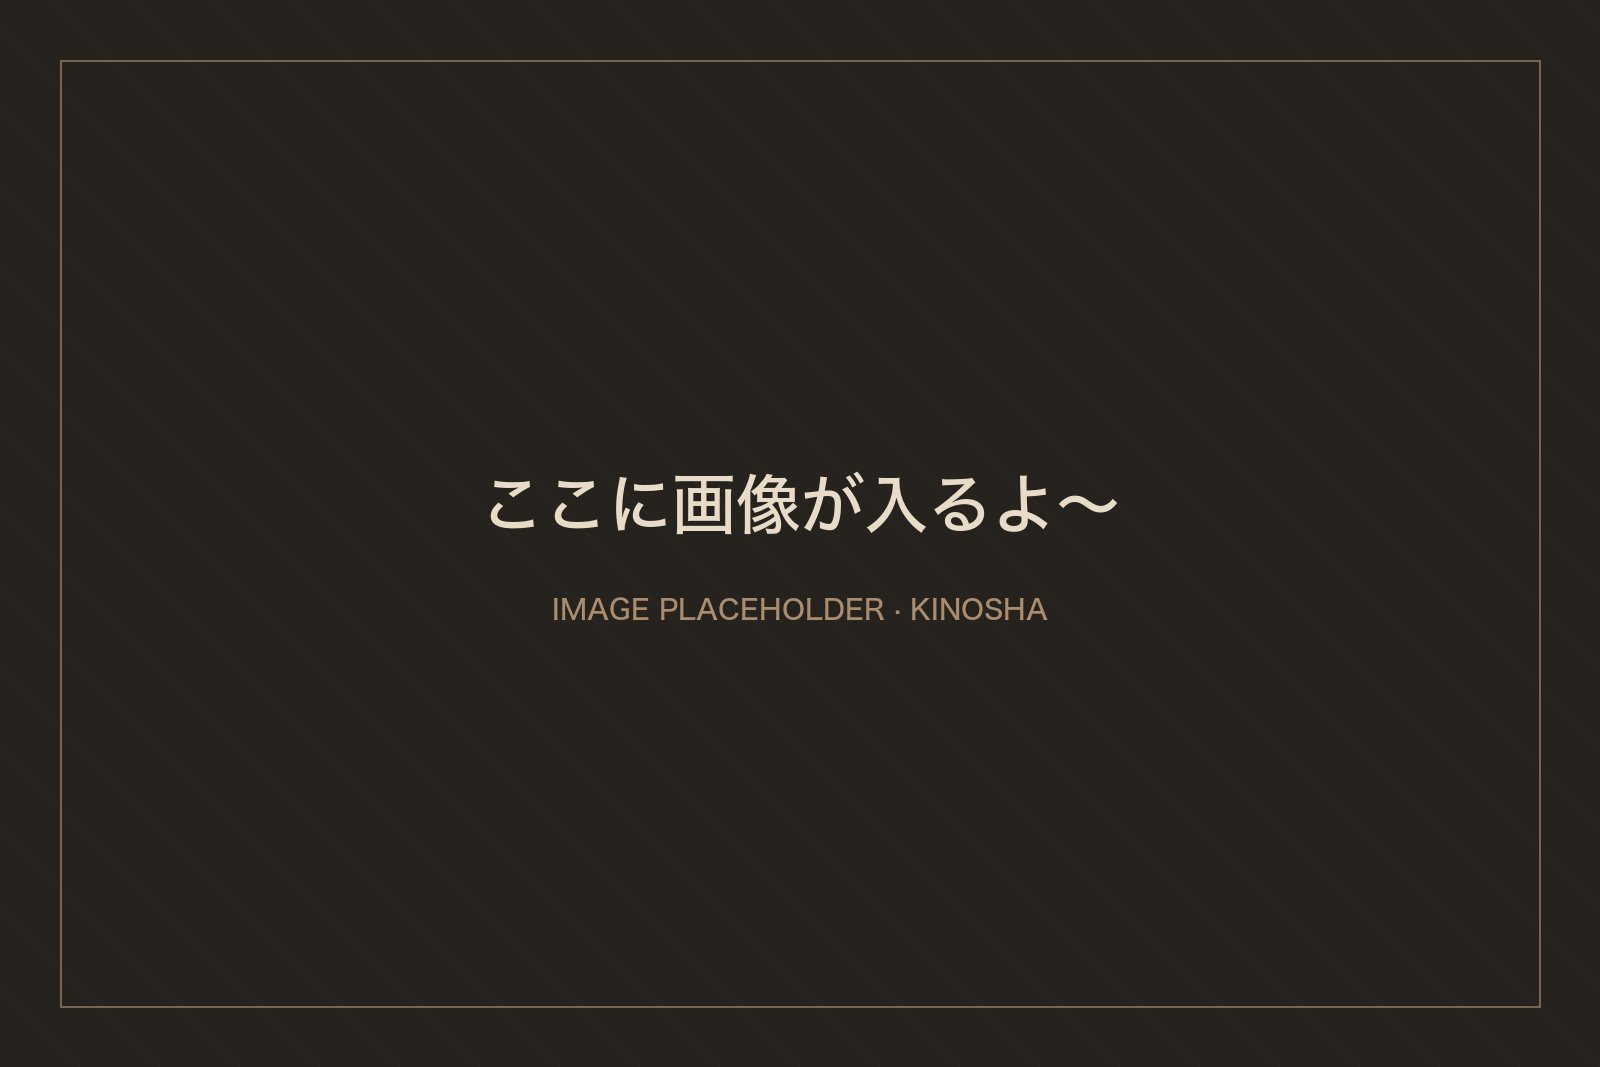
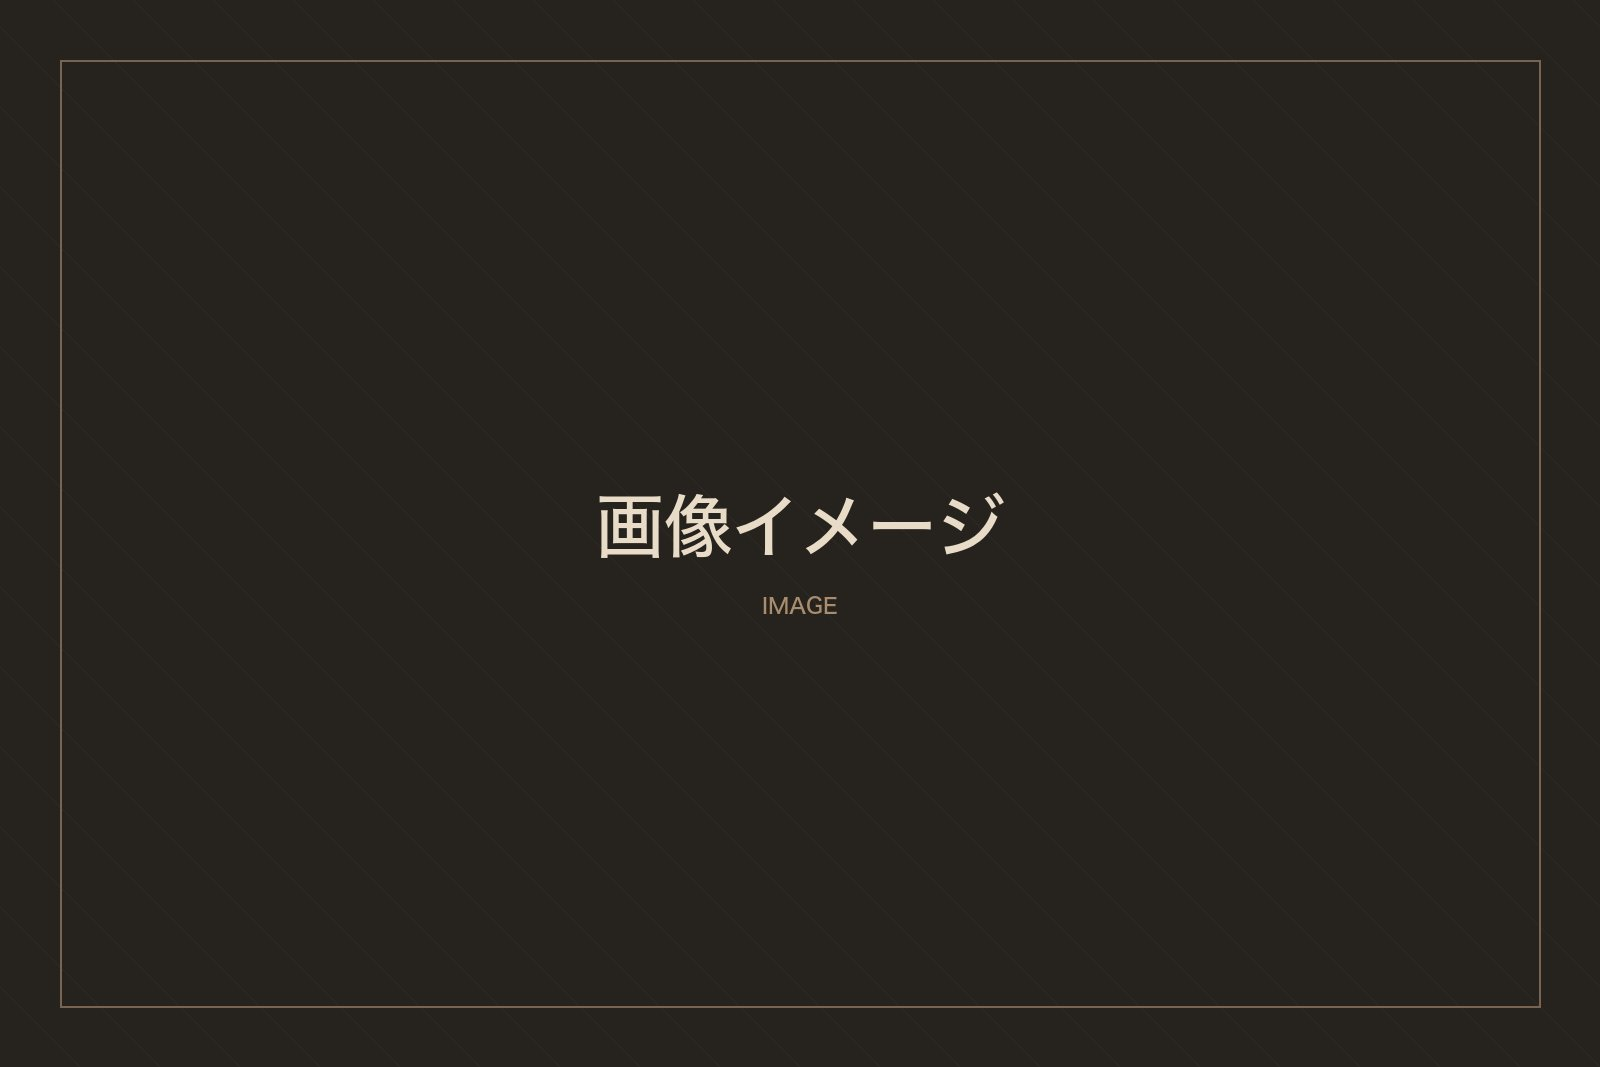
copy: 「編集部イチオシのお店」表現に統一・プレースホルダ画像を「画像イメージ」表記に
- Qualia / 汽ノ舎 両記事の quote を「編集部としてはいちばんおすすめしたい」
  →「編集部イチオシのお店」表現へ
- placeholder.jpg を「ここに画像が入るよ〜」→「画像イメージ / IMAGE」に再生成
- 編集トーンガイドの推奨フレーズを追従更新

Changed region(s): [[0.3125, 0.433, 0.6875, 0.5258], [0.3438, 0.5567, 0.6562, 0.5876]]

diff --git a/lib/newGuideFeatures6.ts b/lib/newGuideFeatures6.ts
@@ -121,7 +121,7 @@ export const NEW_GUIDE_FEATURE_ARTICLES_6: Record<string, FeatureArticle> = {
         "Qualiaは、2回目以降のデート、記念日・誕生日ディナー、食後の二軒目バー利用まで、いろんなシーンを引き受けてくれる一軒。姪浜は地下鉄空港線で天神まで約15分なので、終電を気にせずゆったり夜を楽しめる時間帯まで居られるのがありがたい。夕方は能古島フェリーで海風を浴びる短いクルーズや、マリナタウン周辺の散歩と組み合わせると、デート全体のメリハリがぐっと増します。雨の日は屋外アクティビティをいさぎよく諦めて、Qualiaに直行し2〜3時間じっくり過ごす――そんな使い方も最高の夜になるだろう。観光地ではない街だからこそ、お店を主役に据えたデートが最適解。これって、意外と希少なオプションだと思う。",
         ["/restaurants/qualia/image_1.jpg"], [{ k: "利用シーン", v: "デート / 記念日 / 二軒目 / 普段使い" }, { k: "予約", v: "土日のディナーは予約推奨" }])],
     sideArticles: [],
-    quote: "Kitchen&Bar Qualiaは、姪浜で「食事もお酒も1軒で完結する」という稀有なポジションを担う一軒。観光地ではない街だからこそ、お店そのものを主役にしたデートが組み立てやすい――そこを、編集部としてはいちばんおすすめしたい。",
+    quote: "Kitchen&Bar Qualiaは、姪浜で「食事もお酒も1軒で完結する」という稀有なポジションを担う一軒。観光地ではない街だからこそ、お店そのものを主役にしたデートが組み立てやすい――まさに、編集部イチオシのお店です。",
     quoteCite: author,
     closing: "最後に、編集部が考える「黄金動線」を共有しておきたい。17:30に姪浜駅で待ち合わせ→マリナタウンか能古島港でちょっとだけ散歩（〜18:30）→Kitchen&Bar Qualiaでコースディナー（19:00〜21:00）→食後はそのままバーカウンターに席を移してカクテル2〜3杯（21:00〜22:30）→姪浜駅から地下鉄で帰路。この流れがいちばん気持ちよく決まる、というのが編集部の結論です。所要は4〜5時間、予算は1人8,000〜13,000円ほどが目安（コース内容で変動）。2回目以降のデートにも、記念日・誕生日ディナーにも、食後の二軒目バー使いにも、幅広く頼れる一軒。土日のディナー帯（19〜21時）は予約してから足を運ぶのが正解だ。営業時間・料金・コース内容は時期で変わるので、訪問前に公式サイトやGoogleマップで最新情報をチェックしておくと安心。天神・中洲の喧騒からそっと離れて、落ち着いた大人の夜を過ごしたい2人にこそ、届けたい一軒です。最後に注意点をひとつだけ。失敗しやすいのは「ディナーピーク時の予約なし突撃」と「終電時刻の見落とし」、この2つに尽きる。姪浜駅の最終電車と予約時間を逆算しながら、当日のプランを気持ちよく組み立ててみてください。",
   },
@@ -163,7 +163,7 @@ export const NEW_GUIDE_FEATURE_ARTICLES_6: Record<string, FeatureArticle> = {
         ["/restaurants/kinosha/nachi-falls.jpg", "/restaurants/kinosha/daimonzaka.jpg", "/restaurants/kinosha/katsuura-port.jpg"],
         [{ k: "周辺観光", v: "那智の滝・大門坂・勝浦温泉・勝浦漁港（車15〜25分圏）" }, { k: "営業", v: "金〜火 11:00–17:00 / 水・木 定休" }])],
     sideArticles: [],
-    quote: "汽ノ舎は、紀南の「新しいふるさと」。世界遺産も、温泉も、マグロもある那智勝浦の中に、もうひとつ訪れる理由を増やしてくれる稀有な一軒。観光地「だけ」ではない紀南を体験したい人にこそ、編集部としてはいちばんおすすめしたい。",
+    quote: "汽ノ舎は、紀南の「新しいふるさと」。世界遺産も、温泉も、マグロもある那智勝浦の中に、もうひとつ訪れる理由を増やしてくれる稀有な一軒。観光地「だけ」ではない紀南を体験したい人にこそ届けたい、編集部イチオシのお店です。",
     quoteCite: author,
     closing: "最後に、編集部が考える「紀南×汽ノ舎・黄金1日プラン」を共有しておきたい。9:00 大門坂入口から熊野古道を散策→10:30 那智の滝・熊野那智大社→12:00 車で下里へ移動→12:30 汽ノ舎でランチとセレクトショップ＆2Fギャラリー（〜14:30）→15:00 勝浦漁港・勝浦温泉街さんぽ→17:00 海岸露天風呂→夜はマグロを心ゆくまで――この流れが、紀南を1日で体験する「編集部の結論」です。汽ノ舎の営業は金〜火の 11:00–17:00、水・木は定休なので、訪問日はそこを起点に組み立てるのが正解だ。営業時間・取り扱い商品・カフェのシェフ・イベント内容は時期で変わるので、訪問前に公式 Instagram などで最新情報をチェックしておくと安心。世界遺産の重みと、新しい紀南カルチャーの「軽やかさ」。両方を1日で味わえるのは、紀南という土地の懐の深さゆえだ。観光地「だけ」ではない紀南を、ぜひ汽ノ舎から覗いてみてほしい一軒です。",
   },

diff --git a/agent-teams/editorial_tone_guide.md b/agent-teams/editorial_tone_guide.md
@@ -94,7 +94,7 @@
 ---
 
 ## quote（編集部の声）
-1〜2文。**「〜編集部としてはいちばんおすすめしたい」「〜そこを推したい」**で締める断言フレーズ。
+1〜2文。**「まさに、編集部イチオシのお店です」「〜編集部イチオシのお店として届けたい」**などで締める断言フレーズ。
 
 ## closing（編集後記）
 - 「黄金動線」「編集部の結論」「届けたい一軒」など、編集部の言葉として締める